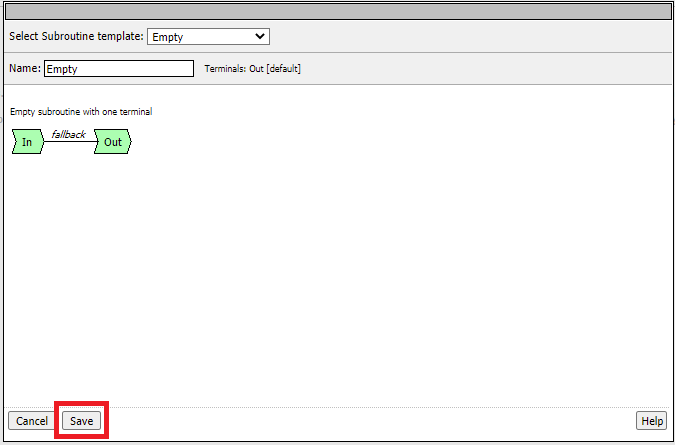
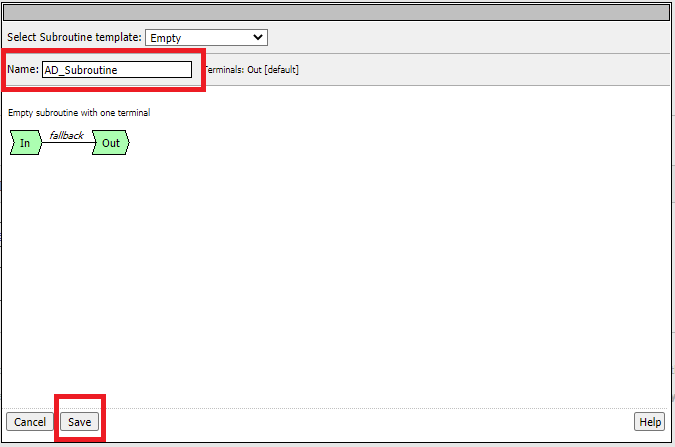
updates

Changed region(s): [[0.0, 0.0, 1.0, 0.9933]]

diff --git a/class1/module2/lab02.rst b/class1/module2/lab02.rst
@@ -129,7 +129,7 @@ In this example we're going to use a Per-Request Policy with a subroutine to aut
 |                                                                                              |
 | 6. Give it a name and Click Save                                                             |
 |                                                                                              |
-|    -  **Name**: **AD Auth**                                                                  |
+|    -  **Name**: **AD_Subroutine**                                                            |
 |                                                                                              |
 | 7. Click the + between In and Out                                                            |
 |                                                                                              |
@@ -138,9 +138,9 @@ In this example we're going to use a Per-Request Policy with a subroutine to aut
 | 9. At the bottom of the list choose **AD Auth** and click **Add Item**                       |
 |                                                                                              |
 +----------------------------------------------------------------------------------------------+
-| |Lab2-Image11|                                                                               |
+| |Lab2-Image10|                                                                               |
 |                                                                                              |
-| |Lab2-Image12|                                                                               |
+| |Lab2-Image11|                                                                               |
 +----------------------------------------------------------------------------------------------+
 
 
@@ -156,5 +156,5 @@ Lab 2 is now complete.
 .. |Lab2-Image7| image:: /class1/module2/media/Lab2-Image7.png
 .. |Lab2-Image8| image:: /class1/module2/media/Lab2-Image8.png
 .. |Lab2-Image9| image:: /class1/module2/media/Lab2-Image9.png
+.. |Lab2-Image10| image:: /class1/module2/media/Lab2-Image10.png
 .. |Lab2-Image11| image:: /class1/module2/media/Lab2-Image11.png
-.. |Lab2-Image12| image:: /class1/module2/media/Lab2-Image12.png
